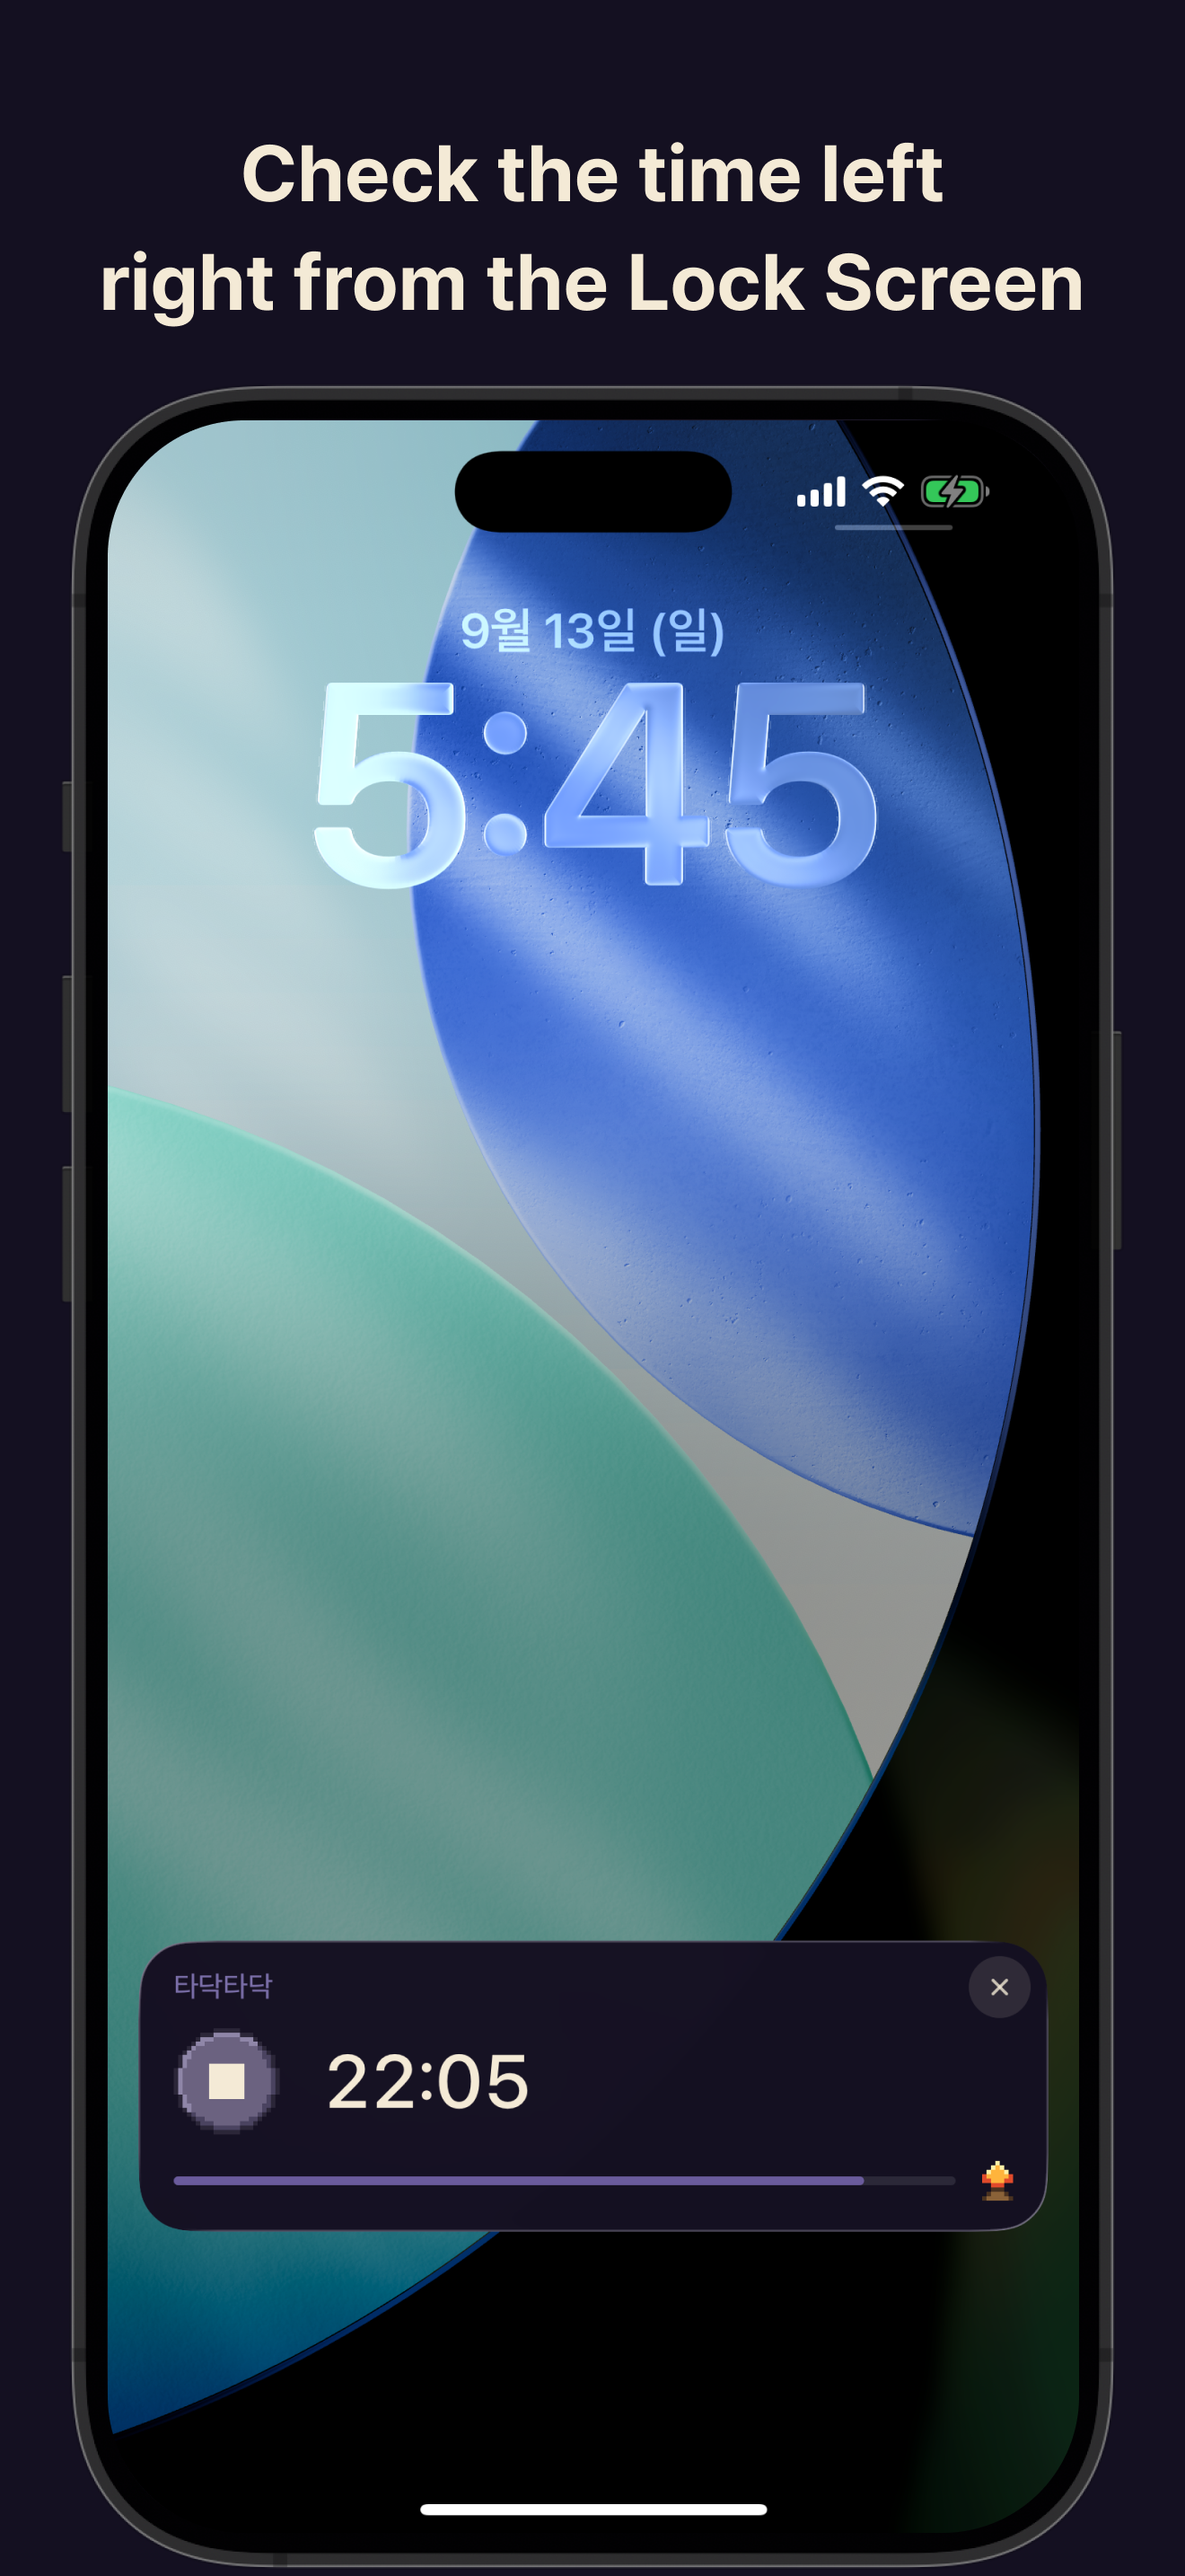
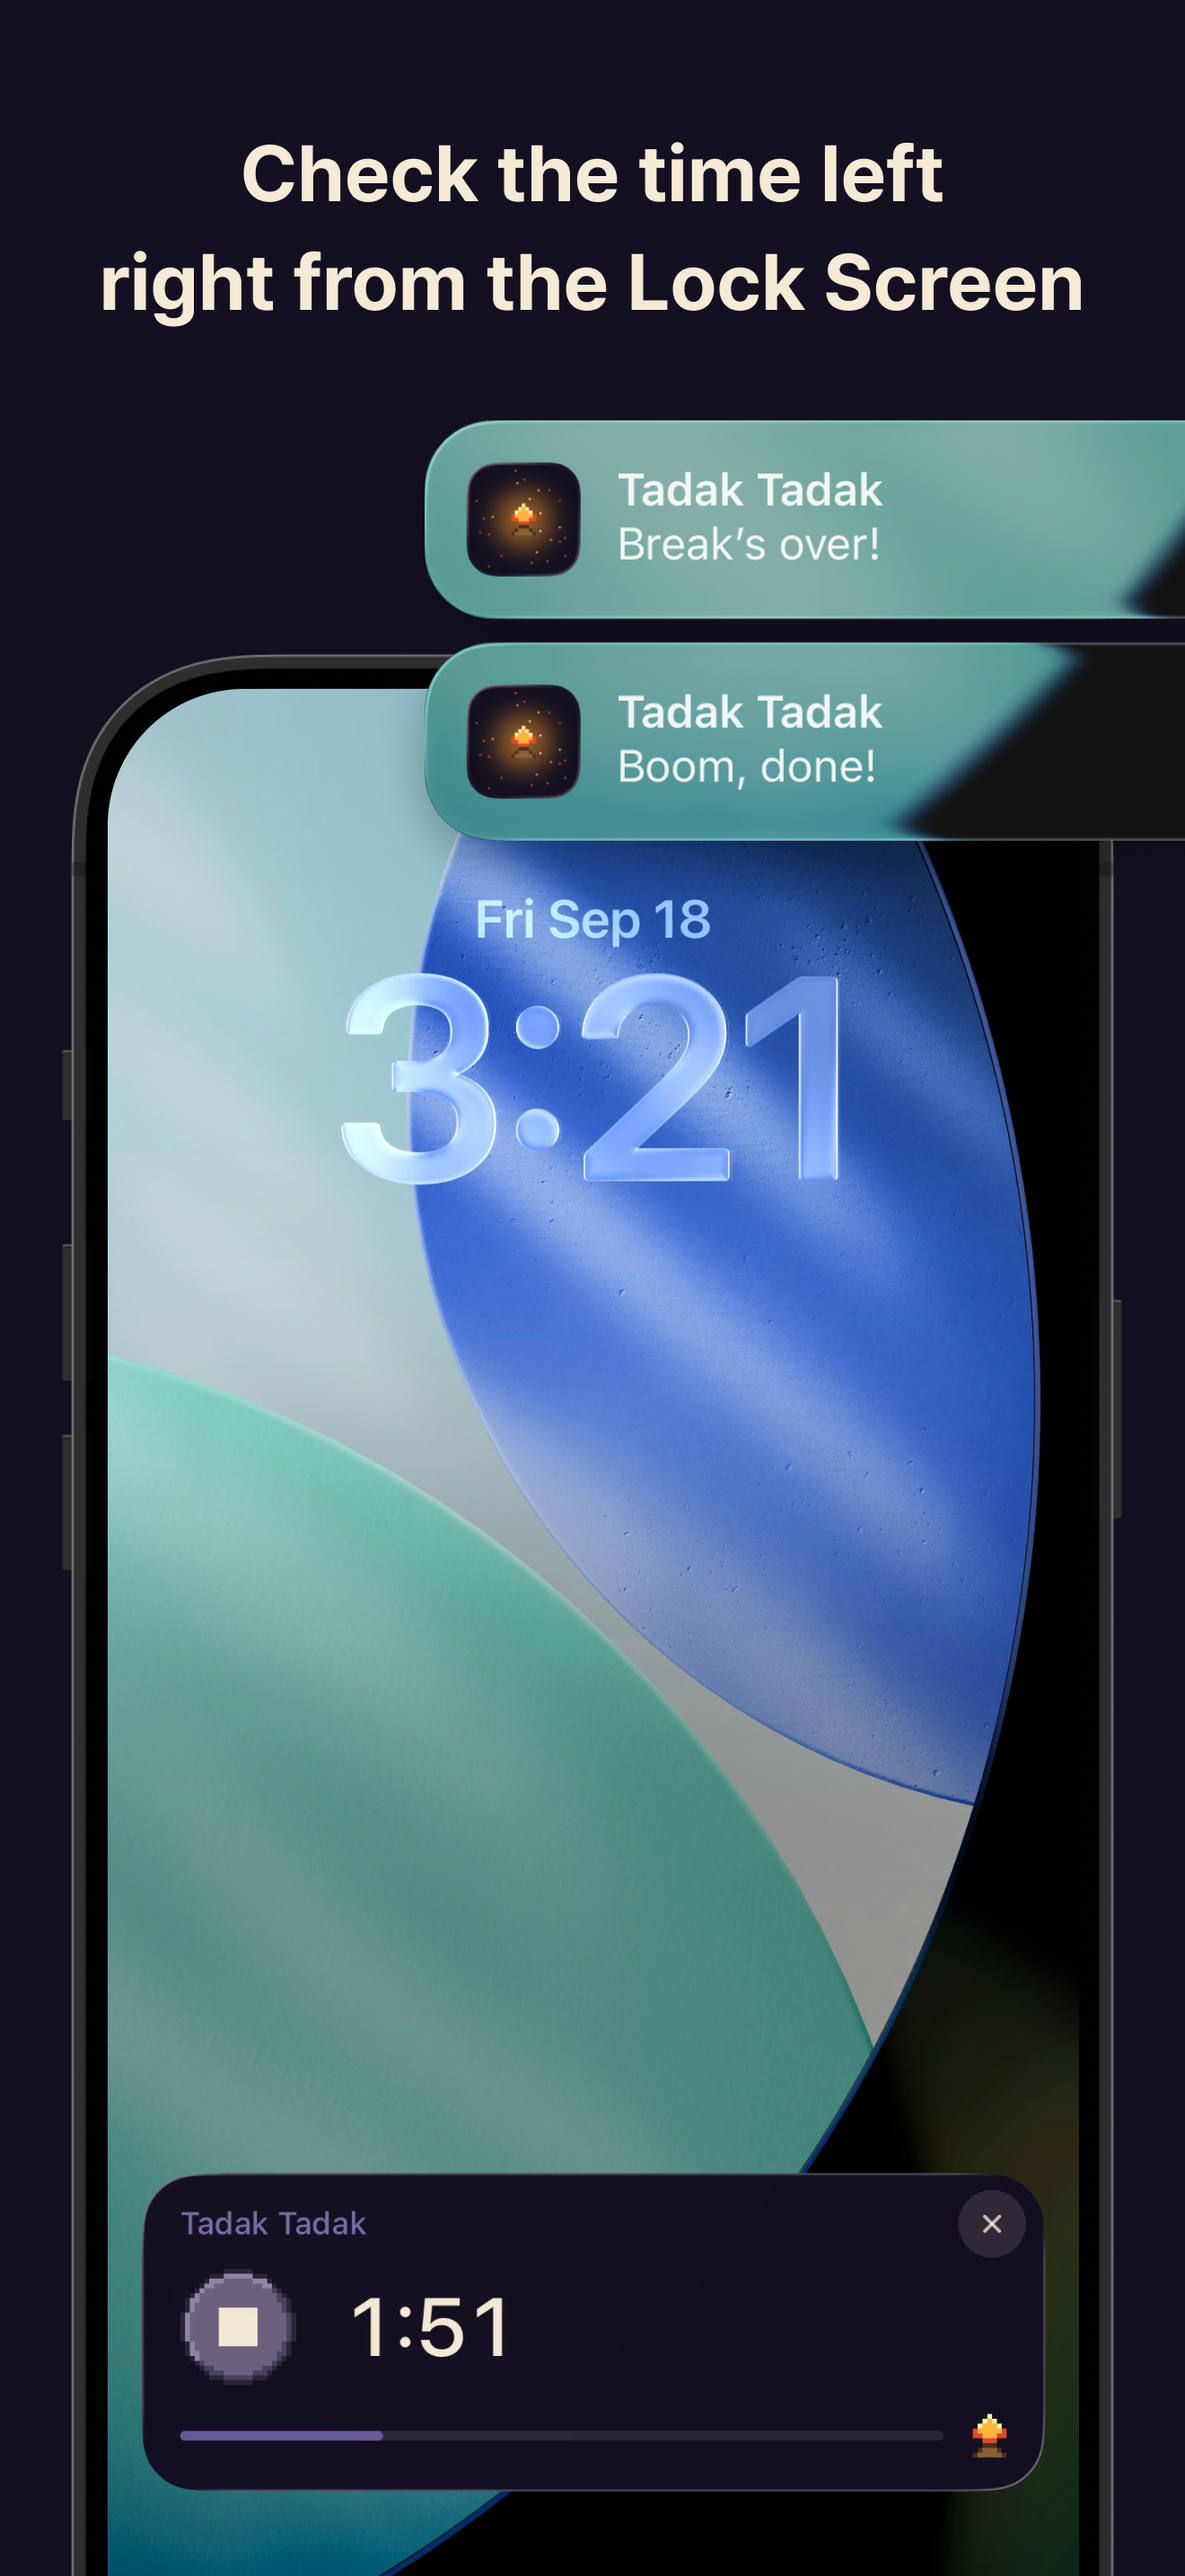
docs: 잠금화면 스크린샷 교체 (#58)
* docs: 잠금화면 스크린샷에 알림 카드 추가

* docs: README에 App Store 링크 추가

diff --git a/README.md b/README.md
@@ -3,6 +3,8 @@
 집중할 땐 은은하게 밝아지고, 쉴 땐 차분하게 어두워져요.
 집중할 시간과 휴식할 시간을 설정하고, 타이머를 시작하면 돼요.
 
+[App Store에서 받기](https://apps.apple.com/app/id6811381445)
+
 <p>
   <img src="store/ios/screenshots/ko/01-timer-setting.png" width="200">
   <img src="store/ios/screenshots/ko/02-focus-running.png" width="200">
